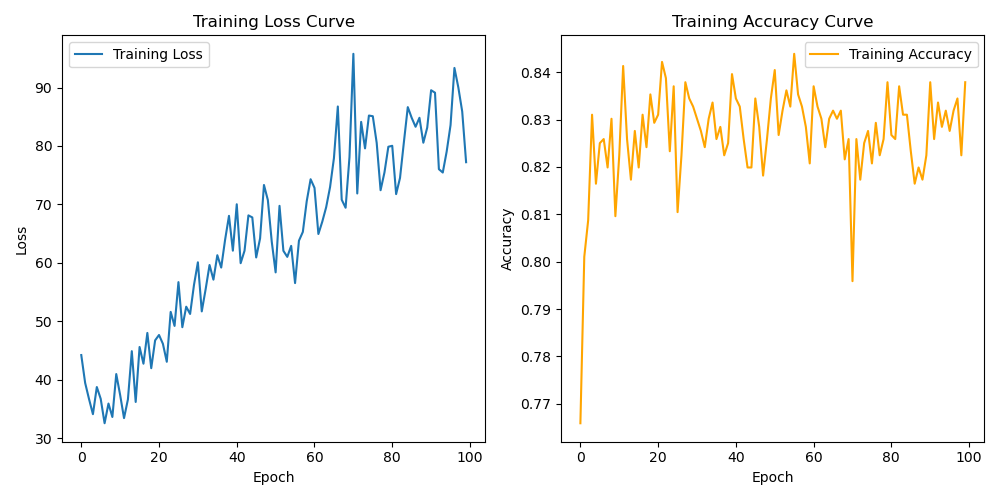
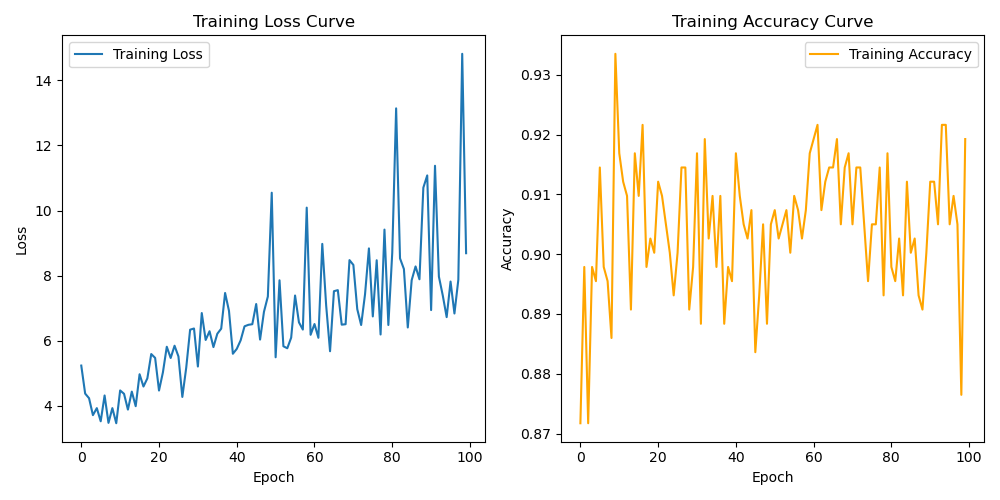
setting up the system

diff --git a/homo/fedavg/isolation.py b/homo/fedavg/isolation.py
@@ -3,16 +3,16 @@ from typing import Tuple, Dict
 import torch
 import torch.nn as nn
 import torch.nn.functional as F
-import torchvision
+
 
 import matplotlib.pyplot as plt
 import torchvision.transforms as transforms
 from torch import Tensor
 from torchvision.datasets import FashionMNIST
-from torchvision.datasets import CIFAR10
+
 import random
 import torch
-import numpy as np
+
 
 Non_uniform_cardinality=False
 
@@ -51,7 +51,7 @@ def load_data() -> (
     Tuple[torch.utils.data.DataLoader, torch.utils.data.DataLoader, Dict]):
     """Load MNIST (training and test set)."""
     transform = transforms.Compose(
-        [transforms.ToTensor(), transforms.Normalize((0.5,), (0.5,))]
+        [transforms.ToTensor(), transforms.Normalize((0.1307), (0.3081))]
     )
     # Load the MNIST dataset
     trainset = FashionMNIST(DATA_ROOT, train=True, download=True, transform=transform)
@@ -67,30 +67,85 @@ def load_data() -> (
 
     indices_train = random.sample(range(len(trainset)), sample_size_train)
     sampler_train= torch.utils.data.SubsetRandomSampler(indices_train)
-
     trainloader = torch.utils.data.DataLoader(trainset, batch_size=32, shuffle=False, sampler=sampler_train)
+
     indices_test = random.sample(range(len(testset)), sample_size_test)
     sampler_test = torch.utils.data.SubsetRandomSampler(indices_test)
-
     testloader = torch.utils.data.DataLoader(testset, batch_size=32, shuffle=False, sampler=sampler_test)
+
     num_examples = {"trainset": sample_size_train, "testset": sample_size_test}
+    # Extract labels for the sampled training set
+    train_labels = [trainset[i][1] for i in indices_train]
+    test_labels = [testset[i][1] for i in indices_test]
+
+    # Count the number of samples in each class for the sampled data
+    class_counts_train = {}
+    class_counts_test = {}
+
+    for label in train_labels:
+        if label not in class_counts_train:
+            class_counts_train[label] = 1
+        else:
+            class_counts_train[label] += 1
+
+    for label in test_labels:
+        if label not in class_counts_test:
+            class_counts_test[label] = 1
+        else:
+            class_counts_test[label] += 1
+
+    # Print class counts for the sampled data
+    for label, count in class_counts_train.items():
+        print(f"Train Class {label}: {count} samples")
+
+    for label, count in class_counts_test.items():
+        print(f"Test Class {label}: {count} samples")
+
+
+    
+
 
     return trainloader, testloader, testset, num_examples
 
 
 
 
+class Net(nn.Module):
+    def __init__(self) -> None:
+        super(Net, self).__init__()
+        self.conv1 = nn.Conv2d(1, 6, 5)
+        self.bn1 = nn.BatchNorm2d(6)
+        self.pool = nn.MaxPool2d(2, 2)
+        self.conv2 = nn.Conv2d(6, 16, 5)
+        self.bn2 = nn.BatchNorm2d(16)
+        self.fc1 = nn.Linear(16 * 4 * 4, 120)
+        self.bn3 = nn.BatchNorm1d(120)
+        self.fc2 = nn.Linear(120, 84)
+        self.bn4 = nn.BatchNorm1d(84)
+        self.fc3 = nn.Linear(84, 10)
+
+    def forward(self, x: Tensor) -> Tensor:
+        """Compute forward pass."""
+        x = self.pool(F.relu(self.bn1(self.conv1(x))))
+        x = self.pool(F.relu(self.bn2(self.conv2(x))))
+        x = x.view(-1, 16 * 4* 4)
+        x = F.relu(self.bn3(self.fc1(x)))
+        x = F.relu(self.bn4(self.fc2(x)))
+        x = self.fc3(x)
+        return x
+   
+
 def train(
     net: Net,
     trainloader: torch.utils.data.DataLoader,
     testloader: torch.utils.data.DataLoader,
     epochs: int,
-    device: torch.device,  # pylint: disable=no-member
+    device: torch.device,  
 ) -> None:
     """Train the network."""
     # Define loss and optimizer
     criterion = nn.CrossEntropyLoss()
-    optimizer = torch.optim.Adam(net.parameters(), lr=0.01)
+    optimizer = torch.optim.Adam(net.parameters(), lr=0.001)
     losses = []
     accuracies = []
 
@@ -123,6 +178,9 @@ def train(
         print('accuracy:',accuracy)
 
     return losses, accuracies
+
+        
+
 
 def test(
     net: Net,
@@ -184,6 +242,6 @@ def main():
     print("Accuracy: ", accuracy)
     ploting(losses, accuracies)
 
-
 if __name__ == "__main__":
     main()
+

diff --git a/hetero/fedavg/isolation.py b/hetero/fedavg/isolation.py
@@ -148,25 +148,6 @@ def train(
 
         
 
-def ploting(losses,accuracies):
-    plt.figure(figsize=(10, 5))
-    plt.subplot(1, 2, 1)
-    plt.plot(losses, label='Training Loss')
-    plt.xlabel('Epoch')
-    plt.ylabel('Loss')
-    plt.title('Training Loss Curve')
-    plt.legend()
-
-    plt.subplot(1, 2, 2)
-    plt.plot(accuracies, label='Training Accuracy', color='orange')
-    plt.xlabel('Epoch')
-    plt.ylabel('Accuracy')
-    plt.title('Training Accuracy Curve')
-    plt.legend()
-
-    plt.tight_layout()
-    plt.show()
-    plt.savefig('photo.png')        
 
 def test(
     net: Net,

diff --git a/homo/pfedme/client_10.py b/homo/pfedme/client_10.py
@@ -1,4 +1,3 @@
-"""Flower client example using PyTorch for FashionMNIST image classification."""
 
 
 import os
